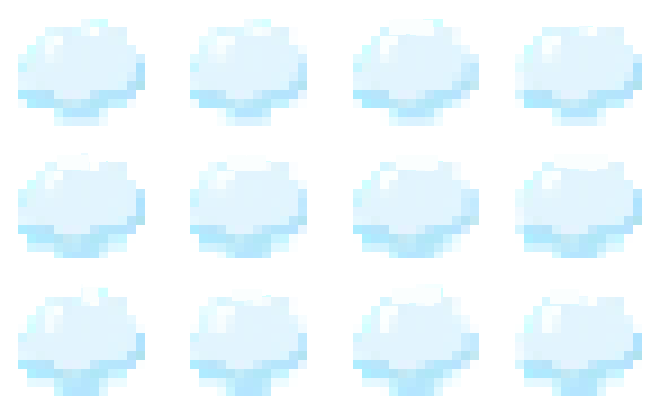
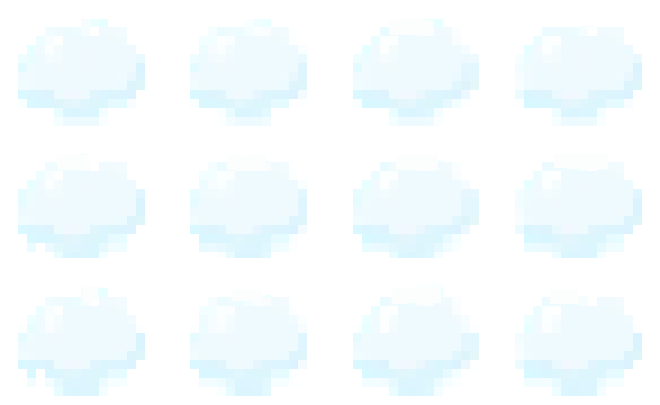
better clouds
no more border clouds

diff --git a/script.js b/script.js
@@ -161,7 +161,7 @@ class tile {
       ) {
          this.inside = true;
          console.log(this.x);
-         console.log(this.y)
+         console.log(this.y);
       } else {
          this.inside = false;
          this.color = 'rgb(0, 0, 0)';
@@ -317,7 +317,7 @@ class cloud {
       }
 
       ctx.drawImage(
-         this.borderTile.bool && cloudBools.asia ? borderCloudsImg : cloudsImg,
+         cloudsImg,
          this.imageX * this.imageW,
          this.imageY * this.imageH,
          this.imageW,
@@ -325,7 +325,6 @@ class cloud {
          this.x,
          this.y,
 
-         
          this.borderTile.sides.includes('right') && !cloudBools.asia ? this.w - 15 : this.w,
          this.borderTile.sides.includes('bottom') && !cloudBools.asia ? this.h - 15 : this.h
       );
@@ -402,7 +401,10 @@ function createTiles() {
                africaMiddleEast.push(new tile(x, y, tileSize, 'africaMiddleEast', tileIdentifier));
             } else if (x >= 770 && x <= 970 && y >= 400 && y <= 550) {
                australia.push(new tile(x, y, tileSize, 'australia', tileIdentifier));
-            } else if (x >= 480 && x <= 660 && y >= 80 && y <= 200 || x >= 280 && x <= 380 && y >= 0 && y <= 100) {
+            } else if (
+               (x >= 480 && x <= 660 && y >= 80 && y <= 200) ||
+               (x >= 280 && x <= 380 && y >= 0 && y <= 100)
+            ) {
                europe.push(new tile(x, y, tileSize, 'europe', tileIdentifier));
             } else if (
                x >= 410 &&

diff --git a/index.html b/index.html
@@ -10,7 +10,7 @@
 <body>
     <img src="img/restaurant.png" alt="restaurant" style="display:none" id="restaurant">
     <img src="img/concurrence restaurant.png" alt="concurrence" style="display:none" id="competition">
-    <img src="img/world-map (1).png" alt="background" id="background" style="display:none">
+    <img src="img/world-map.png" alt="background" id="background" style="display:none">
     <img src="img/clouds.png" id="clouds-img" alt="clouds" style="display:none">
     <img src="img/border-clouds.png" id="border-clouds-img" alt="border-clouds" style="display:none">
     <img src="img/boat.png" alt="boat" id="boat" style="display:none">
